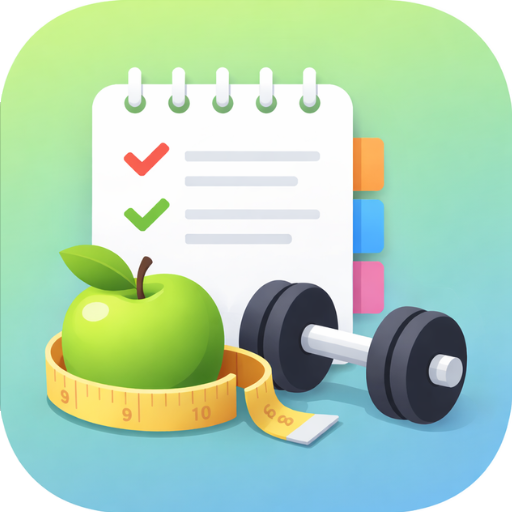
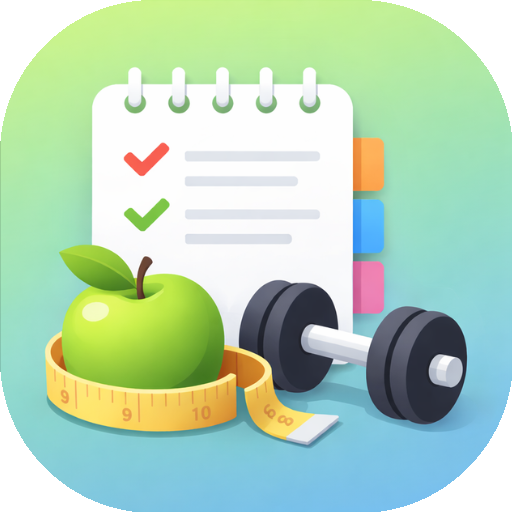
v2.1.45: aumenta rounding dos ícones de 22% → 30%
Radius foi de 112px (22% de 512) pra 153px (30%), cantos mais
arredondados. Processo: flatten pra branco → mask rounded_rectangle →
salvar RGBA. Todos os 4 PNGs derivados regerados a partir da nova versão.

Cache buster: ?v=71 → ?v=72

diff --git a/index.html b/index.html
@@ -7,7 +7,7 @@
 <meta name="apple-mobile-web-app-status-bar-style" content="black-translucent">
 <meta name="theme-color" content="#1a365d">
 <link rel="manifest" href="manifest.json">
-<link rel="apple-touch-icon" sizes="192x192" href="apple-icon.png?v=71">
+<link rel="apple-touch-icon" sizes="192x192" href="apple-icon.png?v=72">
 <title>DietPLAN</title>
 <meta http-equiv="Cache-Control" content="no-cache, no-store, must-revalidate">
 <meta http-equiv="Pragma" content="no-cache">
@@ -35,7 +35,7 @@
 
 <!-- ==================== AUTH SCREEN ==================== -->
 <div id="auth-screen" class="auth-screen">
-  <div class="auth-logo" style="background:none"><img src="apple-icon.png?v=71" alt="DietPLAN" style="width:80px;height:80px;border-radius:18px"></div>
+  <div class="auth-logo" style="background:none"><img src="apple-icon.png?v=72" alt="DietPLAN" style="width:80px;height:80px;border-radius:18px"></div>
   <h1>DietPLAN</h1>
   <p class="auth-subtitle">Dieta + Treino + Marmitas</p>
   <p class="auth-desc">Controle seu plano alimentar, planeje marmitas, registre treinos e acompanhe sua evolução</p>

diff --git a/sw.js b/sw.js
@@ -1,4 +1,4 @@
-const CACHE_NAME = 'dieta-v2.1.44';
+const CACHE_NAME = 'dieta-v2.1.45';
 
 self.addEventListener('install', e => {
   self.skipWaiting();
